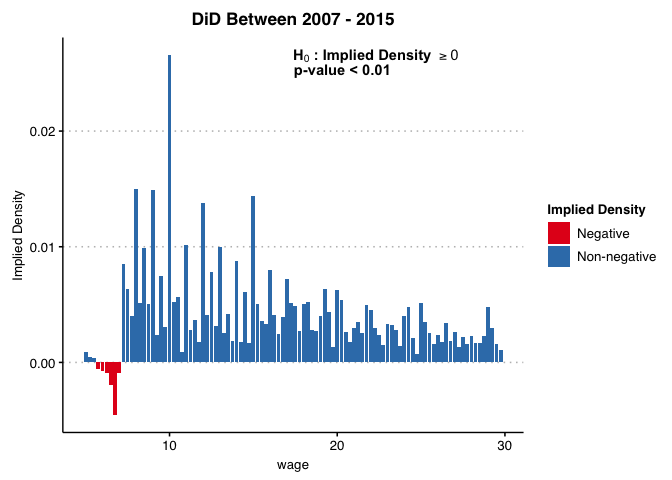
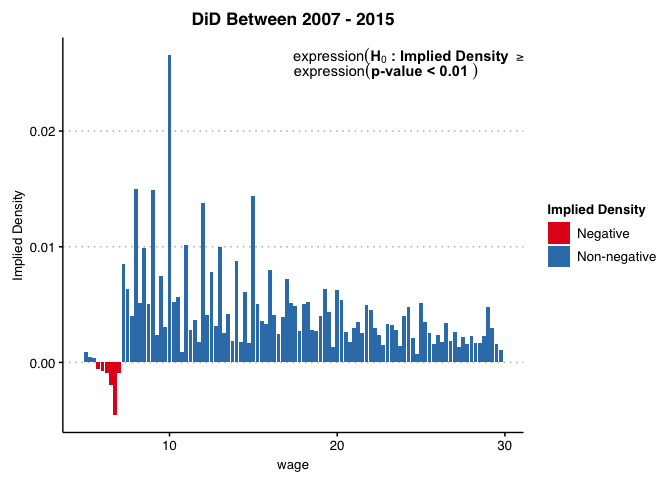
ggplot warning solved

Changed region(s): [[0.4375, 0.0938, 0.7812, 0.1562]]

diff --git a/README.md b/README.md
@@ -74,7 +74,7 @@ it is treated at any point between the provided start and end years.) We
 call didFF as follows:
 
 ``` r
-didFF(
+test_2007_2015<-didFF(
   DF=mw_df,
   idvar="statenum", #panel id is state 
   yvar="wage",  #outcome is wage
@@ -83,14 +83,10 @@ didFF(
   weight = "pop", #weight by population in each bin
   start_t=2007, #pre-treatment year 
   end_t=2015,  #post-treatment year
-  minbin=5, 
-  maxbin=29.99
+  lb_graph=5, 
+  ub_graph=29.99
 )
-#> Warning in is.na(x): is.na() applied to non-(list or vector) of type
-#> 'expression'
-
-#> Warning in is.na(x): is.na() applied to non-(list or vector) of type
-#> 'expression'
+test_2007_2015$plot
 ```
 
 <img src="man/figures/README-2007-2015-1.png" width="100%" />
@@ -122,7 +118,7 @@ for all transformations of the outcome, but insensitivity to functional
 form is not rejected by the data in this example.
 
 ``` r
-didFF(DF=mw_df,
+test_2010_2015<-didFF(DF=mw_df,
                    idvar="statenum", #panel id is state 
                    yvar="wage",  #outcome is wage
                    tvar="year", #time period is year
@@ -130,14 +126,10 @@ didFF(DF=mw_df,
                    weight = "pop", #weight by population in each bin 
                    start_t=2010, #pre-treatment year 
                    end_t=2015,  #post-treatment year
-                   minbin=5, 
-                   maxbin=29.99
+                   lb_graph=5, 
+                   ub_graph=29.99
 )
-#> Warning in is.na(x): is.na() applied to non-(list or vector) of type
-#> 'expression'
-
-#> Warning in is.na(x): is.na() applied to non-(list or vector) of type
-#> 'expression'
+test_2010_2015$plot
 ```
 
 <img src="man/figures/README-2010-2015-1.png" width="100%" />
